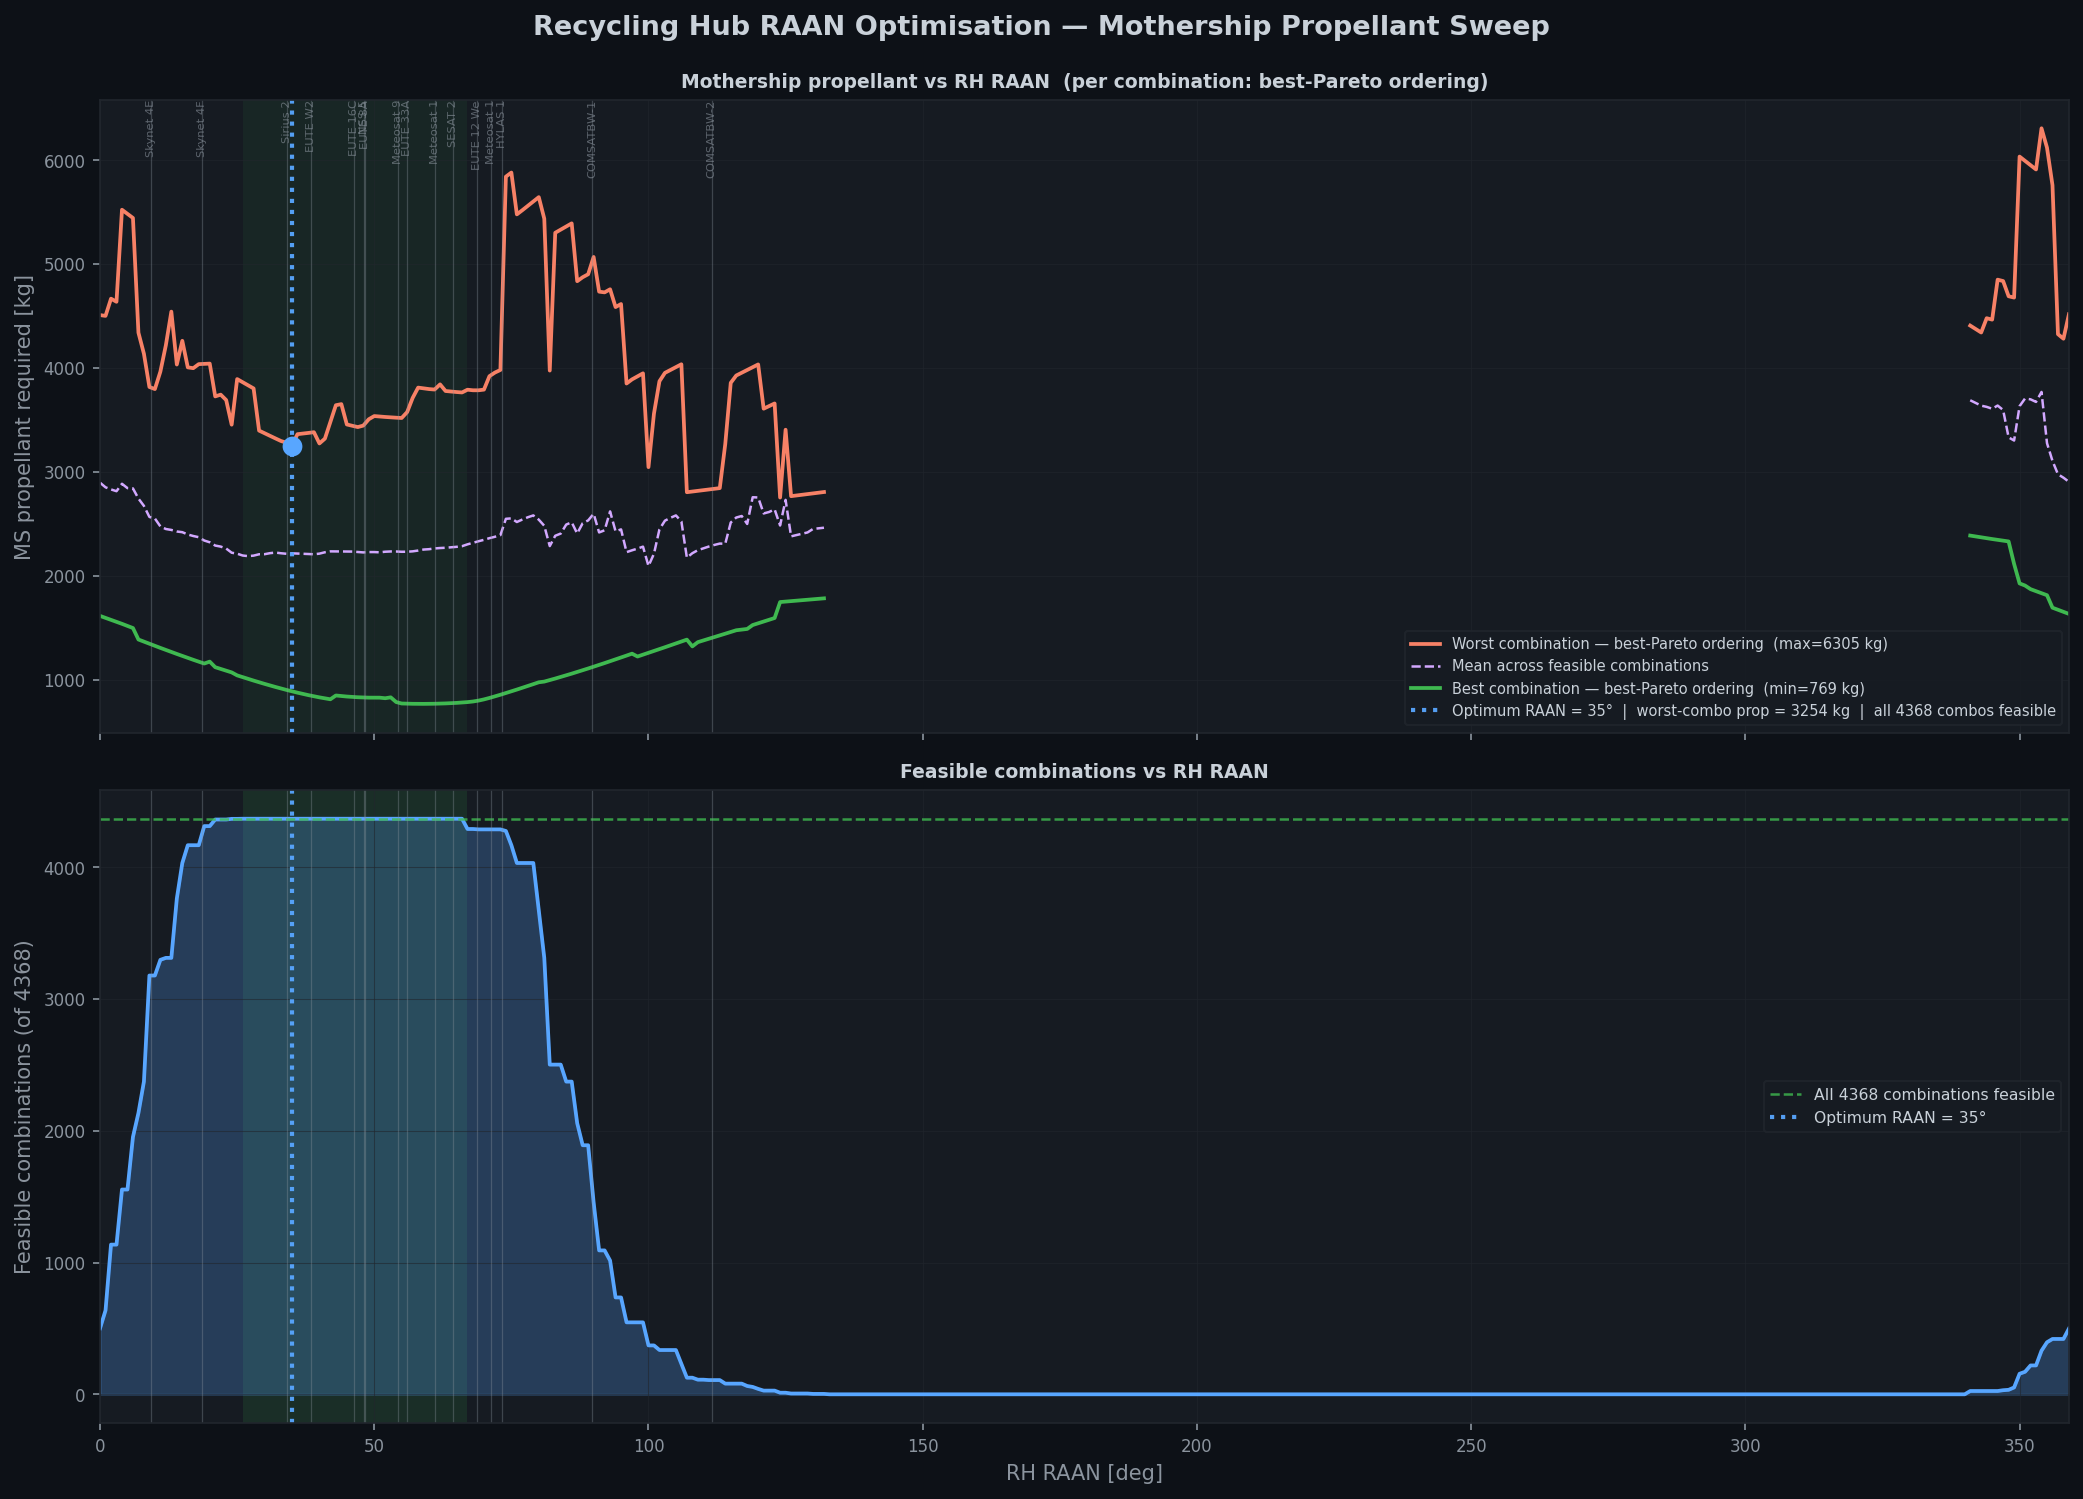
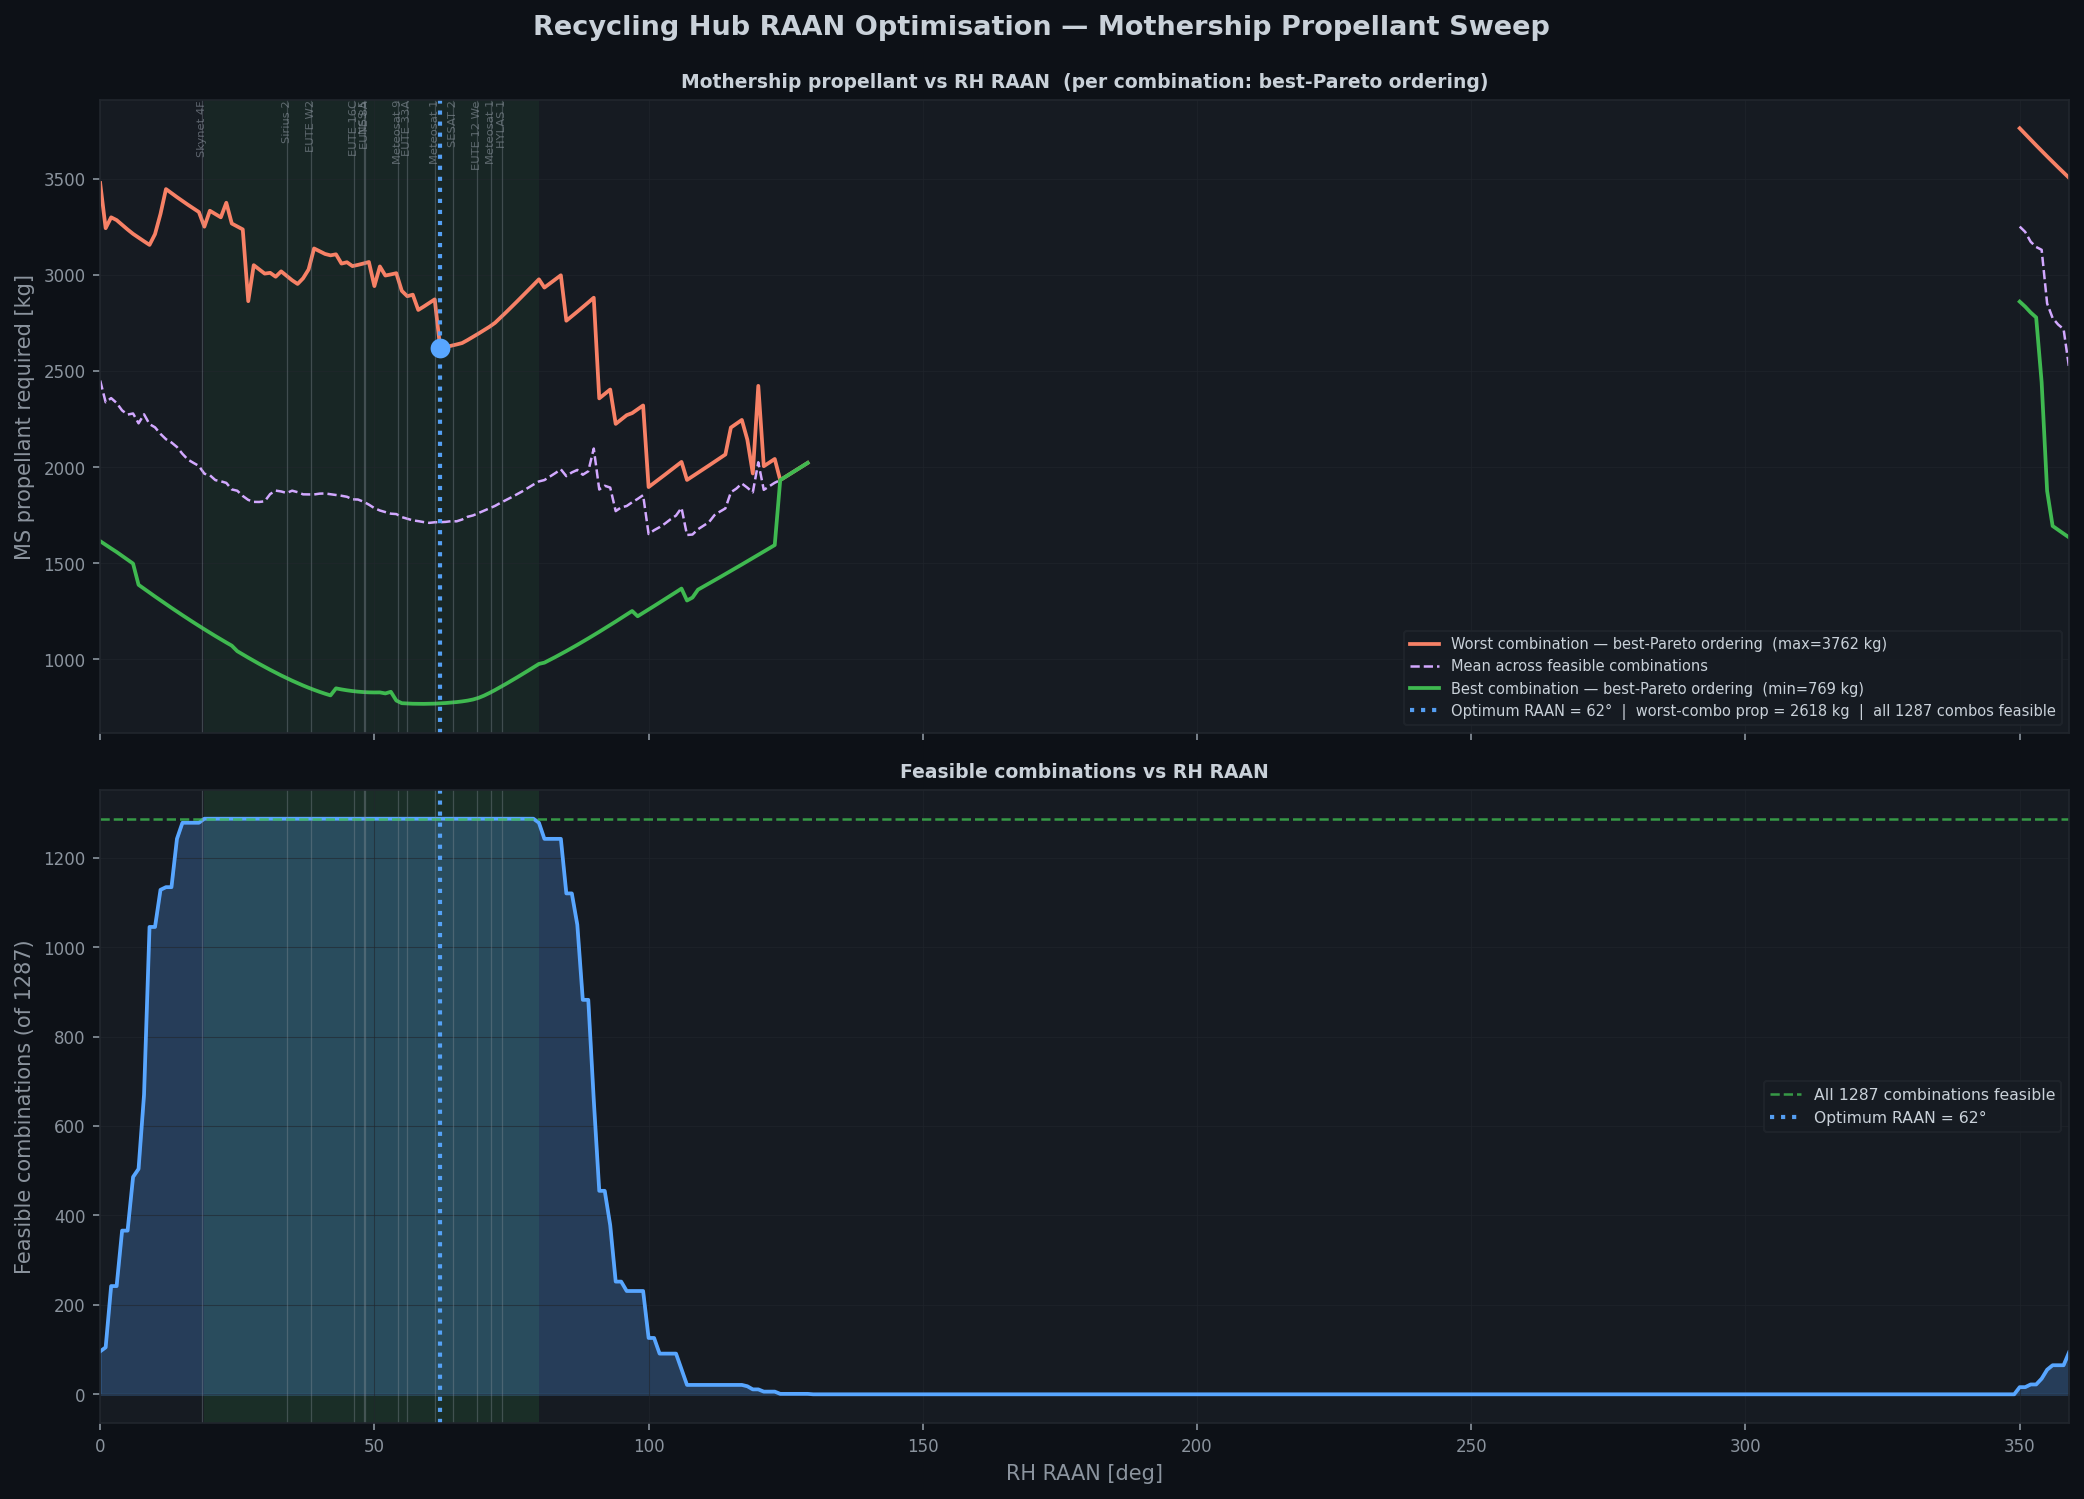
ndeb

diff --git a/trajectory_optimizer/reaver_core.py b/trajectory_optimizer/reaver_core.py
@@ -81,7 +81,7 @@ def build_transfer_table(rh_raan_deg=RH_RAAN):
 
 def compute_tug_spirals(rh_raan_deg=RH_RAAN):
     """
-    Edelbaum iterative sizing for all 16 debris-to-RH tug spirals.
+    Edelbaum iterative sizing for all N_DEB debris-to-RH tug spirals.
 
     Parameters
     ----------
@@ -90,7 +90,7 @@ def compute_tug_spirals(rh_raan_deg=RH_RAAN):
 
     Returns
     -------
-    tug_dv, tug_time, tug_mprop, tug_mwet : (16,) arrays
+    tug_dv, tug_time, tug_mprop, tug_mwet : (N_DEB,) arrays
     """
     tug_dv    = np.zeros(N_DEB)
     tug_time  = np.zeros(N_DEB)
